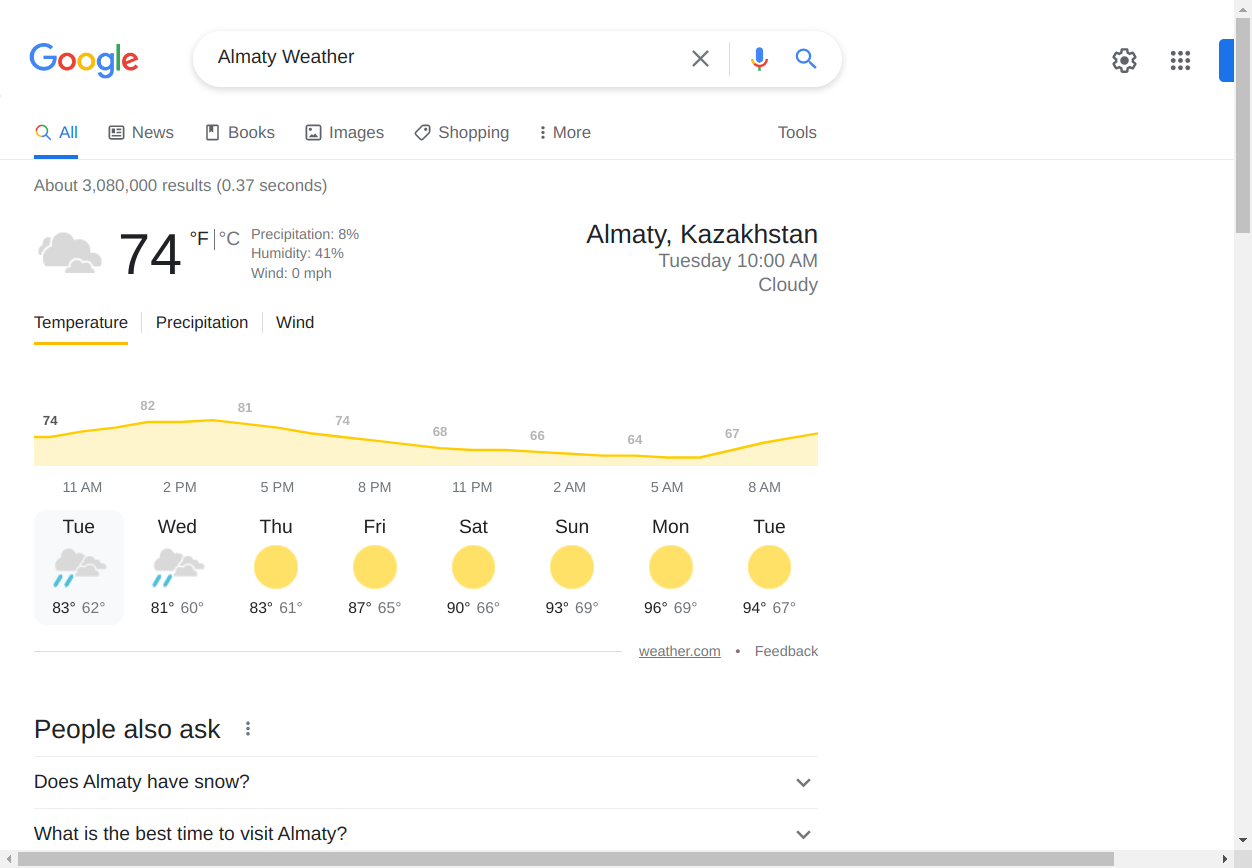
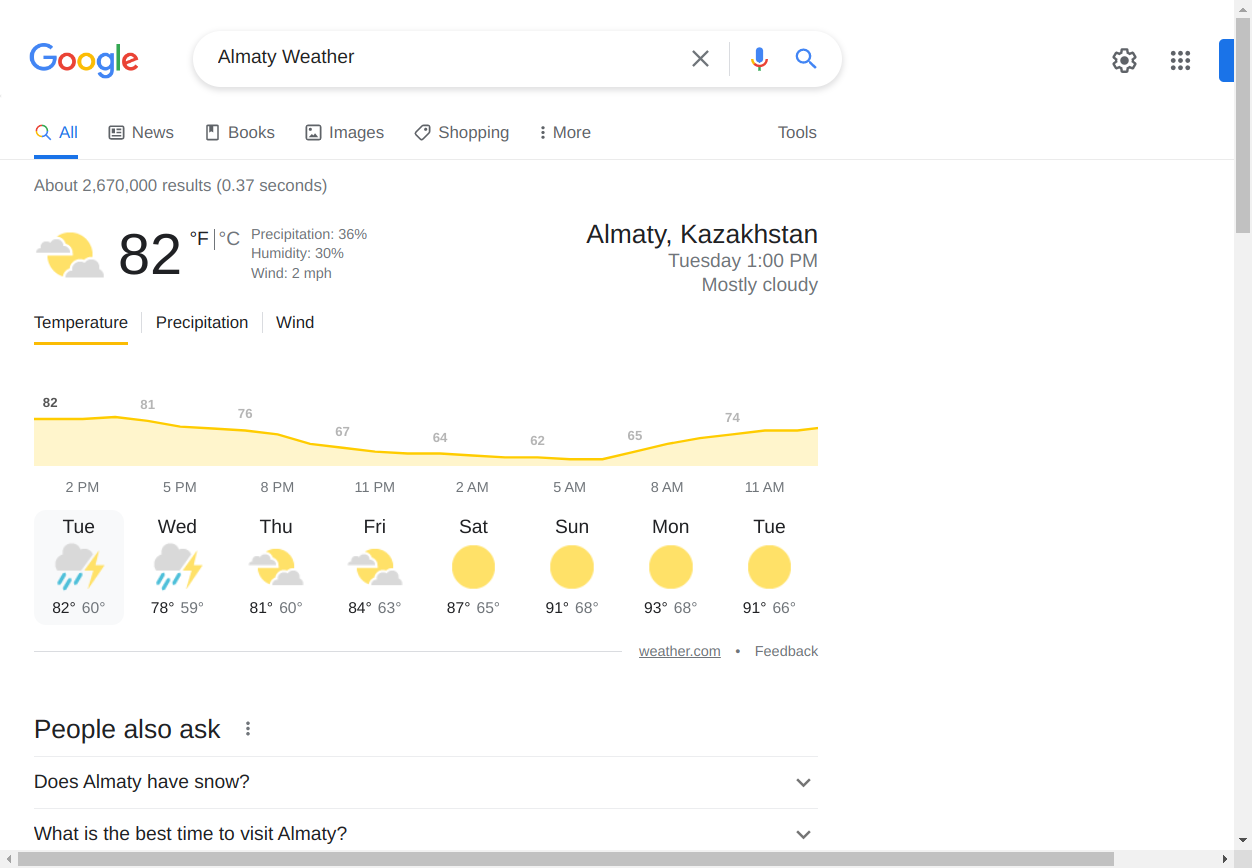
miyagi added

diff --git a/project1.py b/project1.py
@@ -4,11 +4,18 @@ from selenium.webdriver.common.keys import Keys
 
 from time import sleep
 
+# simple google search - weather
 driver = webdriver.Chrome('./chromedriver')
 driver.get('https://google.com')
 driver.find_element(By.XPATH, '//input[@name="q"]').send_keys('Almaty Weather' + Keys.RETURN)
 sleep(2)
 driver.save_screenshot('google_search_almaty_weather.png')
+
+# 
+driver.get('https://www.youtube.com/watch?v=3PmfA0gh214')
+
+sleep(3 * 60 + 32)
+
 driver.quit()
 
 

diff --git a/README.md b/README.md
@@ -1,4 +1,3 @@
-# selenium_simple_project
 simple selenium project 
 =======================
 
